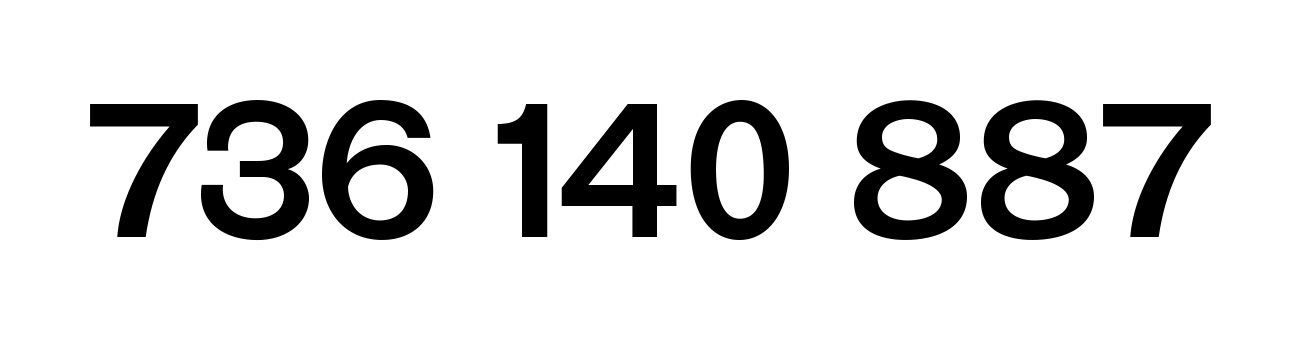
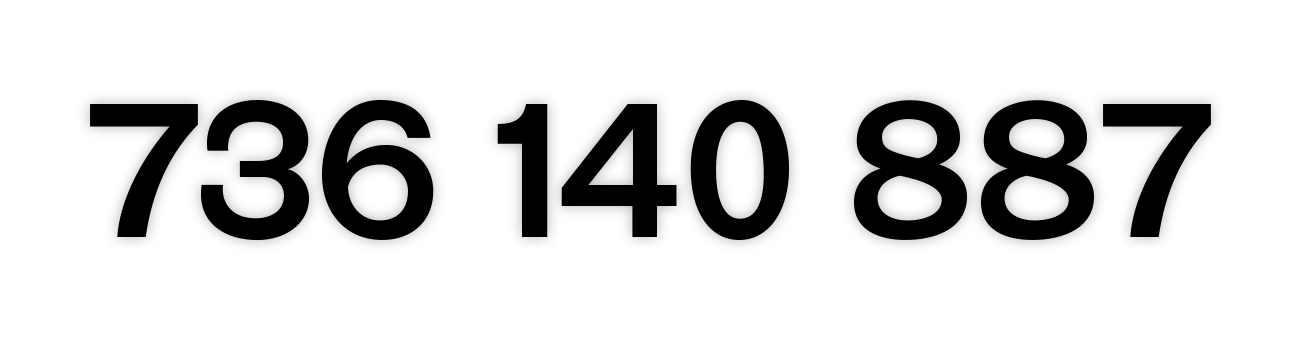
Update v0.9.1
- Fixed some header logo breakpoint scaling issues
- Fixed a script issue where homepage number was making the whole page disappear
- Adjusted some margin values

diff --git a/style.css b/style.css
@@ -75,7 +75,7 @@ main.fade-out {
 }
 
 .logo-header img {
-  height: 30px;
+  height: 40px;
   display: block;
 }
 
@@ -320,7 +320,7 @@ main.fade-out {
 
 .sluzby-call {
   display: block;
-  margin: 20px auto 28px;
+  margin: 40px auto 30px;
   padding: 14px 36px;
   font-size: 16px;
   letter-spacing: 2px;
@@ -345,7 +345,7 @@ main.fade-out {
 /*KONTAKT CONTENT*/
 .kontakt {
   min-height: calc(100dvh - 128px);
-  padding: 32px 0 150px;
+  padding: 32px 0 0px;
   background: #ebebeb;
 }
 
@@ -400,7 +400,7 @@ main.fade-out {
 
 .kontakt-map {
   max-width: 360px;
-  margin: 24px auto 0;
+  margin: 0;
   overflow: hidden;
 }
 

diff --git a/index.html b/index.html
@@ -93,7 +93,7 @@
                 link.addEventListener('click', function(e) {
                     const href = this.getAttribute('href');
 
-                    if (!href || href.startsWith('#') || this.target === '_blank') return;
+                    if (!href || href.startsWith('tel:') || this.target === '_blank') return;
 
                     e.preventDefault();
 

diff --git a/kontakt.html b/kontakt.html
@@ -141,7 +141,7 @@
                 link.addEventListener('click', function(e) {
                     const href = this.getAttribute('href');
 
-                    if (!href || href.startsWith('#') || this.target === '_blank') return;
+                    if (!href || href.startsWith('tel:') || this.target === '_blank') return;
 
                     e.preventDefault();
 

diff --git a/sluzby.html b/sluzby.html
@@ -113,7 +113,7 @@
                 link.addEventListener('click', function(e) {
                     const href = this.getAttribute('href');
 
-                    if (!href || href.startsWith('#') || this.target === '_blank') return;
+                    if (!href || href.startsWith('tel:') || this.target === '_blank') return;
 
                     e.preventDefault();
 